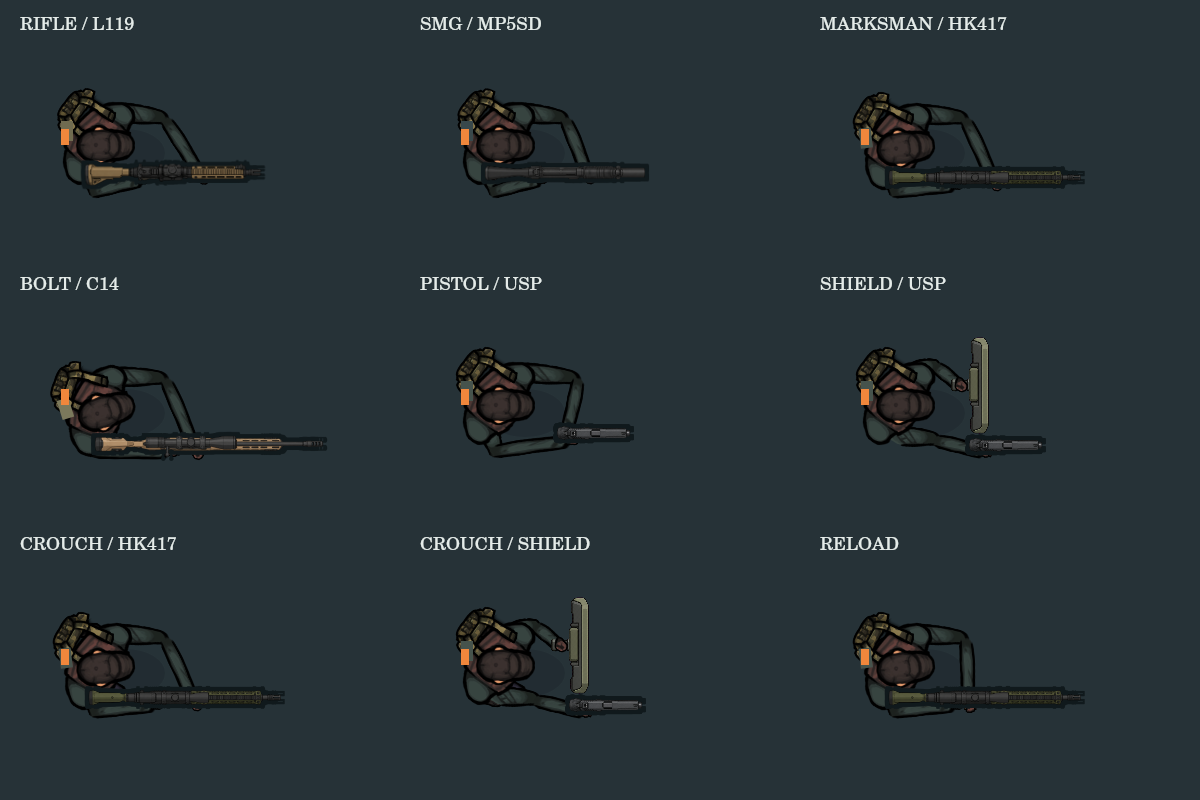
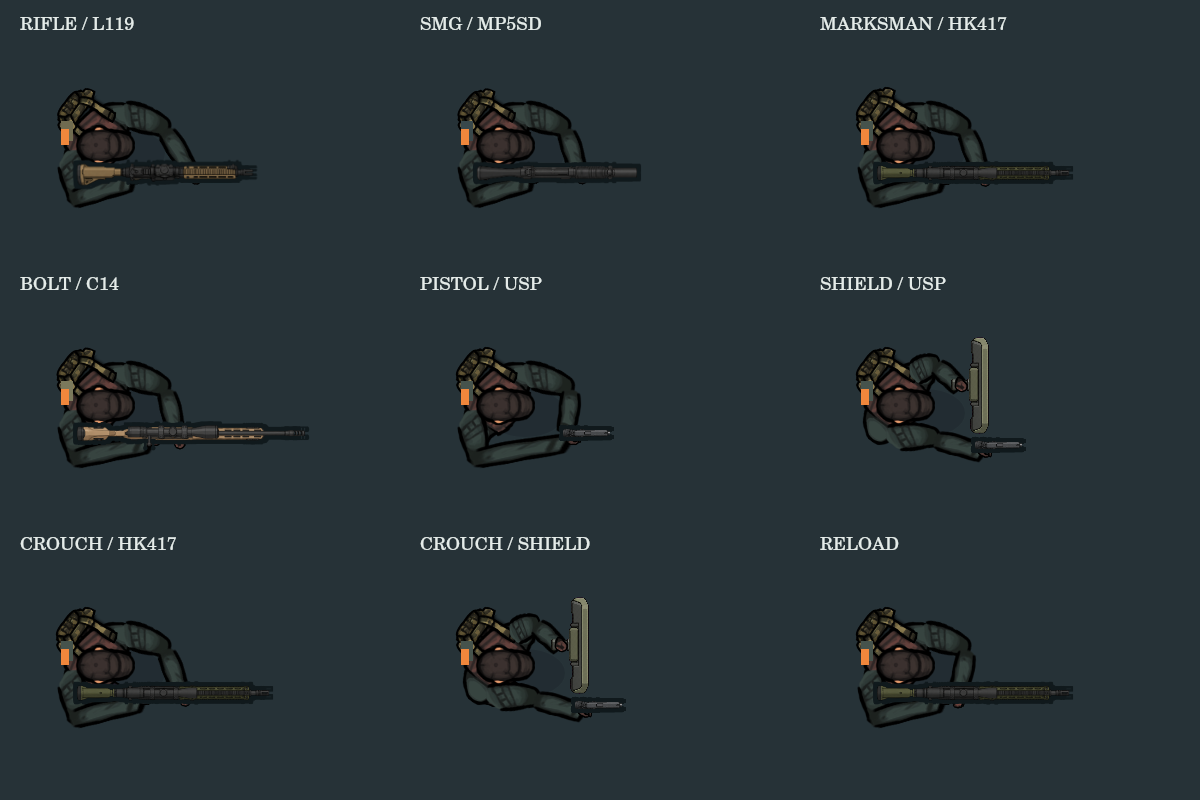
원본 자세에 맞춰 팔 비율·겹침 순서와 권총 표시 크기 교정
몸통이 아래팔을 가리던 레이어 순서를 분리하고 어깨와 팔꿈치 배치를 조정했습니다. 권총 이미지와 손 접점에 동일 배율을 적용해 전투 판정을 유지하면서 인체 대비 크기를 교정했습니다.

검증: 렌더러 480개, 이동·조준 2560개, 팔 접점 100개, TypeScript 및 Vite 빌드 통과. 원본 프레임 비교와 실제 렌더링 시트를 첨부합니다.

diff --git a/artifacts/draft-order-player-generator/src/components/modularOperator.ts b/artifacts/draft-order-player-generator/src/components/modularOperator.ts
@@ -1,13 +1,13 @@
 import { SurvivorParts } from './survivorParts';
 import type { RealtimeUnitState, RealtimeGadget } from '../domain/realtime/TacticalRealtimeSimulation';
-import { paintWeaponPart, weaponPart } from './weaponParts';
+import { paintWeaponPart, weaponPart, weaponDisplayScale } from './weaponParts';
 import { HANDHELD_SHIELD, paintHandheldShield } from './shieldParts';
 
 export type PartLoader = (file:string) => HTMLImageElement;
 type Point = {x:number;y:number};
 
 export const OPERATOR_LAYER_ORDER = [
-  'shadow', 'lower-body', 'arms', 'torso', 'head-and-kit', 'hands', 'weapon', 'shield', 'team-mark',
+  'shadow', 'lower-body', 'torso', 'arms', 'head-and-kit', 'hands', 'weapon', 'shield', 'team-mark',
 ] as const;
 
 export type WeaponPoseKind = 'carbine'|'smg'|'suppressed'|'bullpup'|'p90'|'marksman'|'bolt'|'pistol';
@@ -74,13 +74,15 @@ const mix=(a:Point,b:Point,t:number):Point=>({x:a.x+(b.x-a.x)*t,y:a.y+(b.y-a.y)*
 
 /** 총기 원화를 변형하지 않고 그 원화의 접점으로 양손 자세를 결정합니다. */
 export function weaponMountPose(name:string):WeaponMountPose {
-  const part=weaponPart(name),kind=weaponPoseKind(name);
+  const source=weaponPart(name),scale=weaponDisplayScale(name),kind=weaponPoseKind(name);
+  const scaled=(p:readonly number[])=>p.map(v=>v*scale);
+  const part={length:source.length*scale,gripPoint:scaled(source.gripPoint),supportPoint:scaled(source.supportPoint),magazinePoint:scaled(source.magazinePoint)};
   // 로컬 +X는 조준, +Y는 오른쪽. 실측 각도가 아닌 탑뷰 표현용 자세입니다.
-  const torsoYaw=kind==='bolt'?-.30:kind==='marksman'?-.12:0;
+  const torsoYaw=0;
   const rotate=(p:Point):Point=>({x:p.x*Math.cos(torsoYaw)-p.y*Math.sin(torsoYaw),y:p.x*Math.sin(torsoYaw)+p.y*Math.cos(torsoYaw)});
-  const shoulderPocket=rotate({x:-10,y:7});
+  const shoulderPocket=rotate({x:-12,y:7});
   // 권총은 견착하지 않고 몸 중심 앞에 양손을 모읍니다.
-  const stock=kind==='pistol'?{x:8,y:7}:shoulderPocket;
+  const stock=kind==='pistol'?{x:9.4,y:7}:shoulderPocket;
   const muzzle={x:stock.x+part.length,y:stock.y};
   const trigger=add(muzzle,part.gripPoint),rawSupport=add(muzzle,part.supportPoint),magazine=add(muzzle,part.magazinePoint);
   // 권총 손목은 슬라이드 중심보다 손잡이 아래에 둡니다.
@@ -88,7 +90,7 @@ export function weaponMountPose(name:string):WeaponMountPose {
   const support=kind==='bolt'?mix(magazine,rawSupport,.22):kind==='marksman'?mix(magazine,rawSupport,.55):kind==='pistol'?{x:trigger.x-1,y:trigger.y-1.5}:rawSupport;
   return {kind,stock,triggerHand:trigger,supportHand:support,magazine,muzzle,
     torsoYaw,shoulderPocket,
-    triggerShoulder:rotate({x:-9,y:5}),supportShoulder:rotate({x:-3,y:-9}),cheek:{x:stock.x+5,y:stock.y-3.5}};
+    triggerShoulder:rotate({x:-13,y:2}),supportShoulder:rotate({x:0,y:-9}),cheek:{x:stock.x+5,y:stock.y-3.5}};
 }
 
 /** 방패의 표시용 장착. 총기 장착 기준은 유지하고 몸의 투영과 분리합니다. */
@@ -197,7 +199,7 @@ export function paintModularOperator(ctx:CanvasRenderingContext2D,unit:RealtimeU
   const relative=normalize((motion.frame?.lowerFacing??pose.lowerFacing)-pose.upperFacing);
   const strafe=Math.abs(relative)>.7&&Math.abs(relative)<2.4;
   parts.feet(strafe?0:relative,crouch,motion.frame?.step??0,motion.frame?.gaitPhase??0,!reducedMotion&&pose.moving,strafe?(relative<0?'strafe_left':'strafe_right'):unit.locomotion==='sprint'?'run':'walk');
-  if(down){parts.body(0,kit.pack,kit.color);ctx.restore();return true;}
+  if(down){parts.body(0,kit.pack,kit.color);parts.head(0);ctx.restore();return true;}
   const mount=pose.weapon!;
   const throwProgress=reducedMotion?.6:Math.min(1,throwAge/.45);
   const lower=installing?1:throwing?1-throwProgress:0;
@@ -208,14 +210,14 @@ export function paintModularOperator(ctx:CanvasRenderingContext2D,unit:RealtimeU
   if(reach>0&&!shielding)supportTarget=displaced(mix(mount.supportHand,mount.magazine,reach));
   if(installing){triggerTarget={x:8,y:5};supportTarget={x:9,y:-5};}
   // 원본 소총/권총 자세의 팔꿈치 방향을 사용하고 손끝은 현재 총기 접점에 고정합니다.
-  const triggerArm=shielding?{shoulder:mount.triggerShoulder,elbow:mix(mount.triggerShoulder,triggerTarget,.5),hand:triggerTarget}:{shoulder:mount.triggerShoulder,elbow:{x:-8,y:12},hand:triggerTarget};
+  const triggerArm=shielding?{shoulder:mount.triggerShoulder,elbow:mix(mount.triggerShoulder,triggerTarget,.5),hand:triggerTarget}:{shoulder:mount.triggerShoulder,elbow:{x:-13,y:14},hand:triggerTarget};
   // 방패 팔은 과도한 옆꺾임 없이 짧게 투영된 위팔·아래팔로 손잡이에 닿습니다.
-  let supportArm=shielding?{shoulder:mount.supportShoulder,elbow:{x:3,y:-9},hand:supportTarget}:{shoulder:mount.supportShoulder,elbow:{x:mount.kind==='pistol'?13:10,y:-6},hand:supportTarget};
+  let supportArm=shielding?{shoulder:mount.supportShoulder,elbow:{x:3,y:-9},hand:supportTarget}:{shoulder:mount.supportShoulder,elbow:{x:mount.kind==='pistol'?11:10,y:-3},hand:supportTarget};
   if(throwing){const thrownPose=throwArmPose(throwProgress);supportArm={shoulder:mount.supportShoulder,elbow:thrownPose.elbow,hand:thrownPose.hand};}
-  parts.arm(supportArm);parts.arm(triggerArm);
-  // 탑뷰에서 아래로 내려간 위팔은 흉곽/어깨 아래에 가립니다.
-  // 손 접촉이 맞아도 팔 뿌리를 헬멧 위에 그리면 고리 모양의 기형이 됩니다.
+  // 몸통이 아래팔을 덮지 않도록 원본처럼 몸통 → 팔 → 머리 순으로 조립합니다.
   parts.body(mount.torsoYaw,kit.pack,kit.color);
+  parts.arm(supportArm);parts.arm(triggerArm);
+  parts.head(mount.torsoYaw);
 
   const wristAngle=(arm:ArmPose)=>Math.atan2(arm.hand.y-arm.elbow.y,arm.hand.x-arm.elbow.x);
   // 양손을 총기보다 먼저 그려 슬라이드·상부 레일을 손바닥이 덮지 않게 합니다.

diff --git a/artifacts/draft-order-player-generator/src/components/weaponParts.ts b/artifacts/draft-order-player-generator/src/components/weaponParts.ts
@@ -37,6 +37,9 @@ export const SIDEARM_PARTS:WeaponPart[]=[
 ];
 export function weaponPart(name:string):WeaponPart{return SIDEARM_PARTS.find(item=>name.includes(item.id))??WEAPON_PARTS.find(item=>name.includes(item.id))??WEAPON_PARTS[0];}
 
+/** 원본 인체 대비 권총 전장만 축소합니다. 시뮬레이션 길이는 그대로 둡니다. */
+export function weaponDisplayScale(name:string):number{return SIDEARM_PARTS.some(item=>name.includes(item.id))?.65:1;}
+
 /** 기존 시뮬레이션 발사 원점 계약. 새 보조무장 원화의 전장 표시 크기와 분리합니다. */
 export function weaponMuzzleOffset(name:string):{x:number;y:number}{return {x:SIDEARM_PARTS.some(item=>name.includes(item.id))?15:weaponPart(name).length-3,y:7.5};}
 // 큰 원본을 매 프레임 직접 축소하지 않고 중간 해상도를 한 번만 준비합니다.
@@ -60,7 +63,7 @@ function thumbnail(image:HTMLImageElement,target:number):{color:HTMLCanvasElemen
 export function paintWeaponPart(ctx:CanvasRenderingContext2D,name:string,asset:WeaponAssetLoader):boolean{
  const part=weaponPart(name),image=asset(part.file);
  if(!image||!image.complete||!image.naturalWidth)return false;
- const scale=part.length/(part.muzzle[0]-part.rear);
+ const scale=part.length/(part.muzzle[0]-part.rear)*weaponDisplayScale(name);
  ctx.save();ctx.imageSmoothingEnabled=true;ctx.imageSmoothingQuality='high';
  const transform=ctx.getTransform(),pixels=image.naturalWidth*scale*Math.hypot(transform.a,transform.b);
  const target=Math.min(image.naturalWidth,pixels<=192?192:pixels<=384?384:768);

diff --git a/artifacts/draft-order-player-generator/src/components/survivorParts.ts b/artifacts/draft-order-player-generator/src/components/survivorParts.ts
@@ -21,8 +21,8 @@ export class SurvivorParts {
   this.sprite(name,(a.x+b.x)/2,(a.y+b.y)/2,length+2,width,Math.atan2(b.y-a.y,b.x-a.x));
  }
  arm(pose:{shoulder:Point;elbow:Point;hand:Point}):void {
-  this.segment('arm',pose.shoulder,pose.elbow,5.6);
-  this.segment('forearm',pose.elbow,pose.hand,4.5);
+  this.segment('arm',pose.shoulder,pose.elbow,8.2);
+  this.segment('forearm',pose.elbow,pose.hand,6.5);
  }
  hand(point:Point,angle:number,support=false,reloading=false):void {
   this.sprite(reloading?'hand_grab_ammo':support?'hand_steadying_gun':'hand_holding_gun',point.x,point.y,4,3.5,angle);
@@ -31,9 +31,12 @@ export class SurvivorParts {
   const c=this.ctx;c.save();c.rotate(yaw);
   this.sprite('torso',-7,-1,14,24,.65);
   this.sprite('backpack',-10,-7,12+pack*.12,13+pack*.08,.65);
-  this.sprite('head',-5,0,15,10.3);
+
   // 원본 재질을 유지하며 군장 표식으로 오퍼레이터 색상을 구분합니다.
   c.fillStyle=color;c.fillRect(-16,-6,3,5);c.restore();
+ }
+ head(yaw:number):void {
+  this.ctx.save();this.ctx.rotate(yaw);this.sprite('head',-5,0,15,10.3);this.ctx.restore();
  }
  feet(facing:number,crouch:number,step:number,phase:number,moving:boolean,mode:'walk'|'run'|'strafe_left'|'strafe_right'):void {
   const c=this.ctx;c.save();c.rotate(facing);

diff --git a/docs/survivor-renderer-current.md b/docs/survivor-renderer-current.md
@@ -25,3 +25,10 @@
 ## 다음 채팅
 
 `docs/ART_APPROVED.md`의 최신 지시와 이 문서를 먼저 읽는다. 사용자 피드백 없이 이전 도형 캐릭터를 다시 활성화하지 않는다. 기존 경기 구현 작업 분해 문서의 후속 코드 작업으로 이어갈 수 있다.
+
+## 팔 자세 후속 교정
+
+- 원본 소총·권총 정지 프레임을 직접 비교했다. 기존 조립은 팔 폭이 좁고 몸통이 아래팔을 가려 원본보다 가늘고 각진 팔을 만들었다.
+- 어깨·팔꿈치 배치와 위팔/아래팔 두께를 조정하고 몸통 → 팔 → 머리 순으로 분리했다.
+- 권총은 표시 배율 0.65를 이미지와 손 접점에 동일 적용한다. 총기 원화 파일은 재제작하지 않았으며 시뮬레이션 총구·성능 값도 유지한다.
+- Survivor 480개 조건, 이동/조준 2,560개, 팔 접점 100개 통과. 실제 원본 애니메이션의 완전 복제나 사용자 시각 승인을 의미하지 않는다.
